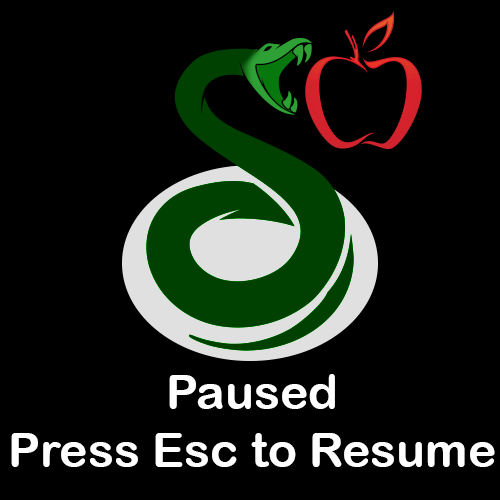
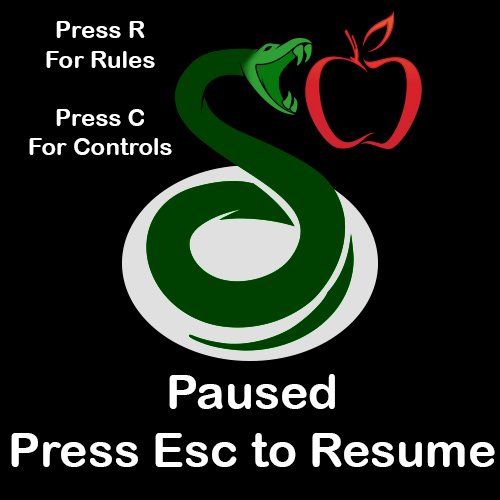
* Dont Exit game window on F1 anymore * Add a Controls Screen * Add a Rules Screen * Make sure the start length is set to 3 long

Changed region(s): [[0.06, 0.21, 0.36, 0.33], [0.09, 0.03, 0.33, 0.15]]

diff --git a/snake.py b/snake.py
@@ -18,10 +18,13 @@ pygame.display.set_caption("Snake Game: Main Menu")
 nextGameState = 0
 gameState = -1
 lastGameState = -1
+prevGameMode = 0
 
-resMainMenu = pygame.image.load("Start.png")
+resMainMenu = pygame.image.load("StartC.png")
 resPauseMenu = pygame.image.load("Pause.png")
 resEndMenu = pygame.image.load("End.png")
+resRulesMenu = pygame.image.load("Rules.png")
+resControlsMenu = pygame.image.load("Controls.png")
 
 # Globals
 cellSizeX = 10
@@ -302,8 +305,16 @@ while runGame:
     keysDown = pygame.key.get_pressed()
 
     # Global Controls
-    if(keysDown[pygame.K_F1]):
-        runGame = False # For debuging drop out of loop and die
+    #if(keysDown[pygame.K_F1]):
+    #    runGame = False # For debuging drop out of loop and die
+    
+    if(keysDown[pygame.K_r] == True and lastKeysDown[pygame.K_r] == False and gameState != 4 and gameState != 5):
+        prevGameMode = gameState
+        nextGameState = 4
+    
+    if(keysDown[pygame.K_c] == True and lastKeysDown[pygame.K_c] == False and gameState != 4 and gameState != 5):
+        prevGameMode = gameState
+        nextGameState = 5
 
     if(keysDown[pygame.K_m] == True and lastKeysDown[pygame.K_m] == False):
         if(musicOn):
@@ -445,6 +456,34 @@ while runGame:
         # Check for arrow input
         if(keysDown[pygame.K_SPACE]):
             nextGameState = 0
+
+    if (gameState == 4):
+        # Draw Rules Screen only on transition into mode for efficency
+        if(gameState != lastGameState):
+            # Clear Screen
+            win.fill((0,0,0))
+            # Draw Menu
+            win.blit(resRulesMenu, (0,0))
+            # Update
+            pygame.display.update()
+            
+        # Check for esc input
+        if(keysDown[pygame.K_ESCAPE] or keysDown[pygame.K_r]):
+            nextGameState = prevGameMode
+
+    if (gameState == 5):
+        # Draw Controls Screen only on transition into mode for efficency
+        if(gameState != lastGameState):
+            # Clear Screen
+            win.fill((0,0,0))
+            # Draw Menu
+            win.blit(resControlsMenu, (0,0))
+            # Update
+            pygame.display.update()
+            
+        # Check for esc input
+        if(keysDown[pygame.K_ESCAPE] or keysDown[pygame.K_r]):
+            nextGameState = prevGameMode
 
 
     # Last thing in loop

diff --git a/kanban.md b/kanban.md
@@ -27,23 +27,23 @@
 * Impliment Golden Apples Probably random time from half a second to 3 seconds to change to normal apple gives 2 segments
 * Make golds worth 5 points not just the 3 they make you grow
 * Don't allow an apple to be placed closer to the head then 6 blocks
-
-### Next Commit
 * [Bug] Sometimes Gold apples show up that never decay and don't score
 * [Bug] Apples dont clear on new game
+* Tuning
+
+### Next Commit
 
 # Testing
 
 # Doing
-* Tuning
-
-# Todo
 * Dont Exit game window on F1 anymore
-* Make end screen semi transparent so player can see the end state of the game
-
-# Final Version
-* Make sure the start length is set to 3 long
-
-# Wishlist
 * Add a Controls Screen
 * Add a Rules Screen
+* Make sure the start length is set to 3 long
+
+# Todo
+
+# Final Version
+
+# Wishlist
+* Make end screen semi transparent so player can see the end state of the game
